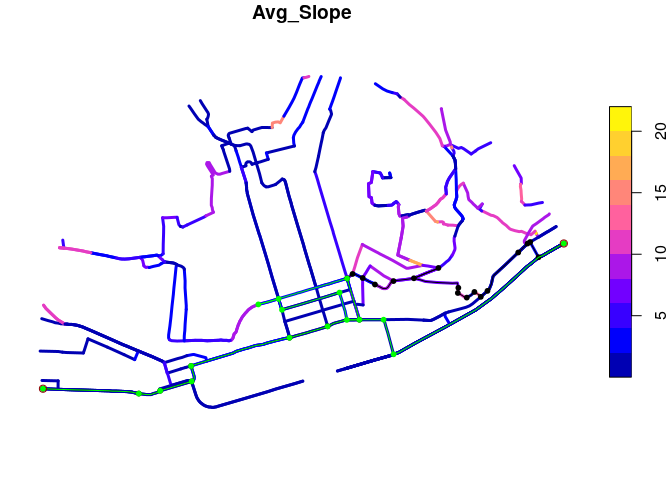
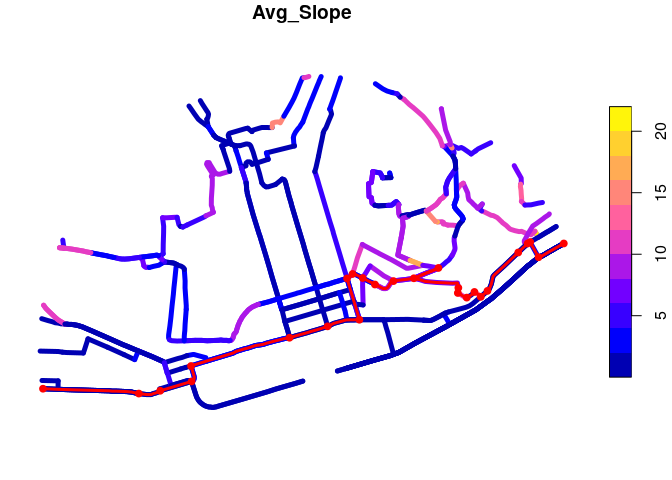
Update results

diff --git a/README.md b/README.md
@@ -166,13 +166,24 @@ plot(path2)
 
 # plot to see difference in routes
 #plot(net, col = "lightgrey")  # How do we plot this with the Avg_Slope as a variable
-plot(r["Avg_Slope"], reset = F, lwd=3)
-plot(path1, add=T)
-plot(path2, add=T, col="green")
+plot(r["Avg_Slope"], reset = F, lwd=5)
+plot(path1, add=T, lwd = 3, col = "red")
+```
+
+![](README_files/figure-gfm/unnamed-chunk-5-4.png)<!-- -->
+
+``` r
+plot(r["Avg_Slope"], reset = F, lwd=5)
+# less hilly route
+plot(path2, add=T, col="green", lwd = 3)
 plot(p1, add=T, col="darkred")
 plot(p2, add=T, col="darkred")
 ```
 
-![](README_files/figure-gfm/unnamed-chunk-5-4.png)<!-- -->
+![](README_files/figure-gfm/unnamed-chunk-6-1.png)<!-- -->
+
+# Next step
+
+Gradient deterrence function.
 
 ## Shortest path in Lisbon with sfnetworks
